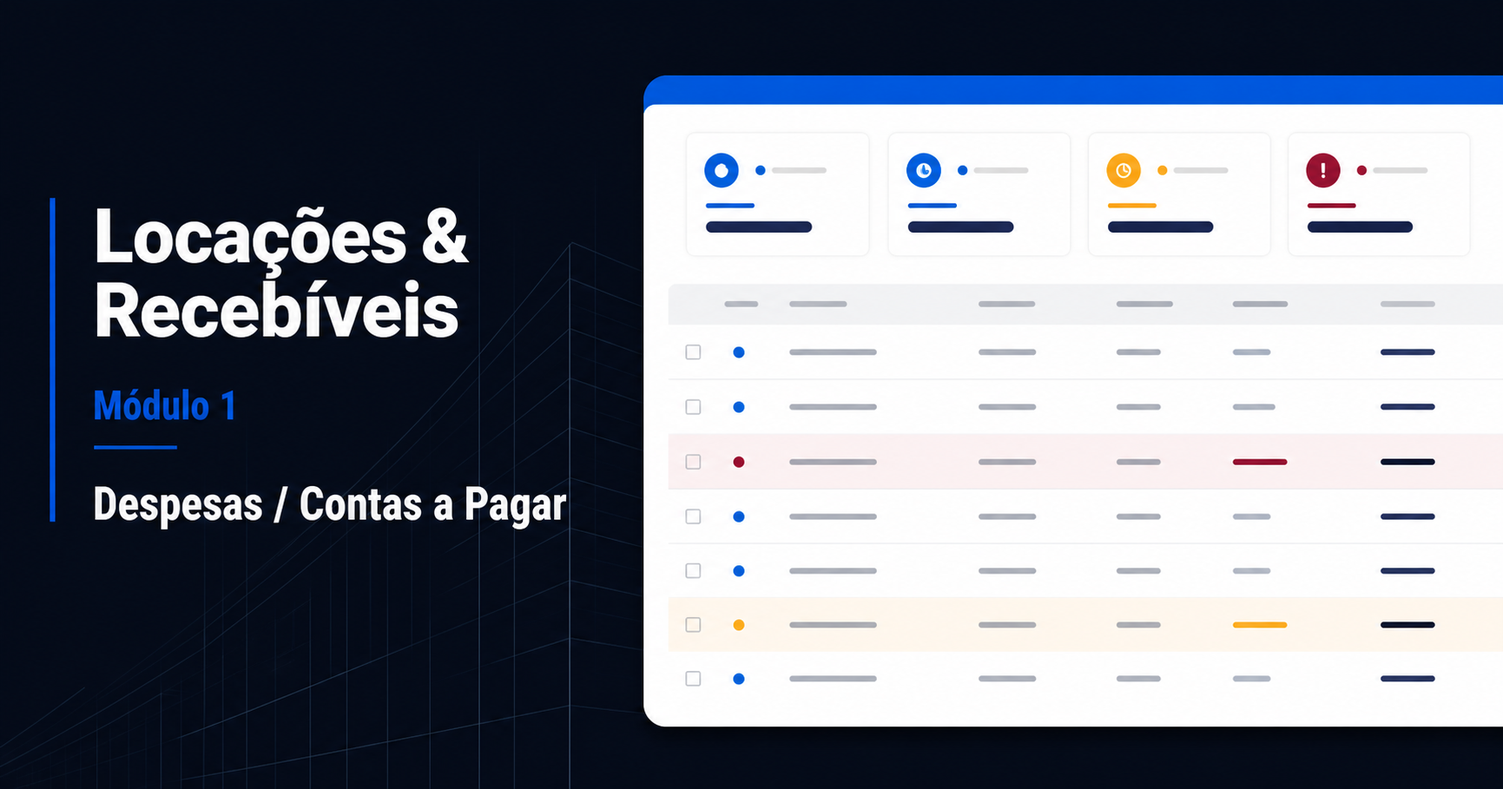
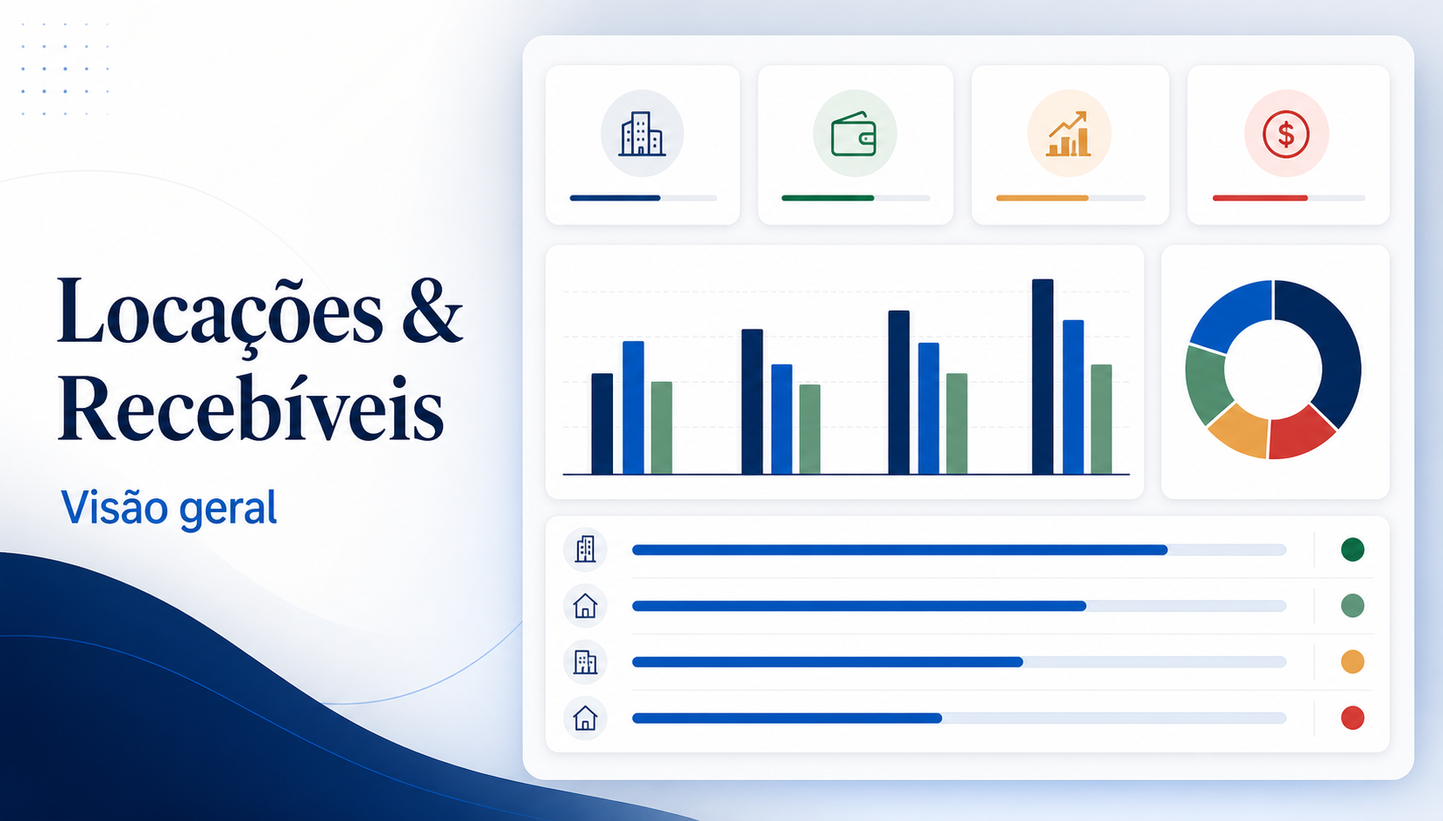
feat: substituir pendencias por dashboard geral

diff --git a/app/page.tsx b/app/page.tsx
@@ -1,11 +1,11 @@
 "use client";
 
-import type { ReactNode } from "react";
+import type { CSSProperties, ReactNode } from "react";
 import { createContext, FormEvent, useContext, useEffect, useMemo, useRef, useState } from "react";
 
 type Status = "Vencida" | "Em aberto" | "Próxima" | "Parcial" | "Recebida";
 type ExpenseStatus = "Pendente" | "Pago" | "Vencido";
-type Page = "Pendências" | "Carteiras" | "Imóveis" | "Unidades" | "Locatários" | "Contratos" | "Cobranças" | "Despesas / Contas a Pagar";
+type Page = "Visão geral" | "Carteiras" | "Imóveis" | "Unidades" | "Locatários" | "Contratos" | "Cobranças" | "Despesas / Contas a Pagar";
 type FormKind = "portfolio" | "property" | "unit" | "tenant" | "contract" | "charge" | null;
 type ContentState = "ready" | "loading" | "error";
 type ToastMessage = { message: string; reference: string } | null;
@@ -318,7 +318,7 @@ export default function Home() {
   useDialogManagement();
   const [authenticated, setAuthenticated] = useState(false);
   const [loading, setLoading] = useState(false);
-  const [page, setPage] = useState<Page>("Pendências");
+  const [page, setPage] = useState<Page>("Visão geral");
   const [search, setSearch] = useState("");
   const [portfolioFilter, setPortfolioFilter] = useState("Todas as carteiras");
   const [statusFilter, setStatusFilter] = useState("Todas");
@@ -359,13 +359,13 @@ export default function Home() {
     };
   }, []);
 
-  const operational = charges.filter((charge) => charge.status !== "Recebida");
-  const baseCharges = page === "Pendências" ? operational : charges;
-  const filteredCharges = useMemo(() => baseCharges.filter((charge) => {
+  const chargeAttentionCount = charges.filter((charge) => charge.status === "Vencida" || charge.status === "Parcial").length;
+  const chargesInScope = useMemo(() => charges.filter((charge) => {
     const query = search.trim().toLowerCase();
     const matchesSearch = !query || [charge.id, charge.contract, charge.property, charge.tenant, charge.competence, ...charge.units, ...charge.items.map((item) => item.name)].some((value) => value.toLowerCase().includes(query));
-    return matchesSearch && (statusFilter === "Todas" || charge.status === statusFilter) && (portfolioFilter === "Todas as carteiras" || charge.portfolio === portfolioFilter);
-  }), [baseCharges, portfolioFilter, search, statusFilter]);
+    return matchesSearch && (portfolioFilter === "Todas as carteiras" || charge.portfolio === portfolioFilter);
+  }), [portfolioFilter, search]);
+  const filteredCharges = useMemo(() => chargesInScope.filter((charge) => statusFilter === "Todas" || charge.status === statusFilter), [chargesInScope, statusFilter]);
   const filteredExpenses = useMemo(() => expenses.filter((expense) => {
     const query = search.trim().toLowerCase();
     const matchesSearch = !query || [expense.id, expense.supplier, expense.description, expense.category].some((value) => value.toLowerCase().includes(query));
@@ -485,7 +485,7 @@ export default function Home() {
   if (!authenticated) return <Login loading={loading} onSubmit={login} />;
 
   return <main className={`app-shell ${sidebarCollapsed ? "app-shell-sidebar-collapsed" : ""}`}>
-    <Sidebar page={page} operationalCount={operational.length} onNavigate={changePage} onLogout={() => setAuthenticated(false)} open={menuOpen} onClose={() => setMenuOpen(false)} collapsed={sidebarCollapsed} onExpand={() => setSidebarCollapsed(false)} />
+    <Sidebar page={page} attentionCount={chargeAttentionCount} onNavigate={changePage} onLogout={() => setAuthenticated(false)} open={menuOpen} onClose={() => setMenuOpen(false)} collapsed={sidebarCollapsed} onExpand={() => setSidebarCollapsed(false)} />
     <section className="workspace" onClick={() => !sidebarCollapsed && setSidebarCollapsed(true)}>
       <header className="topbar">
         <button className="menu-button" onClick={() => setMenuOpen(true)} aria-label="Abrir navegação">☰</button>
@@ -497,7 +497,8 @@ export default function Home() {
         {contentState === "loading" && <AuthenticatedPageSkeleton />}
         {contentState === "error" && <SystemError onRetry={retryContent} />}
         {contentState === "ready" && <FilterStateContext.Provider value={Boolean(search || portfolioFilter !== "Todas as carteiras" || statusFilter !== "Todas" || categoryFilter !== "Todas as categorias")}><>
-          {(page === "Pendências" || page === "Cobranças") && <ChargesPage page={page} charges={filteredCharges} total={baseCharges.length} search={search} setSearch={setSearch} portfolioFilter={portfolioFilter} setPortfolioFilter={setPortfolioFilter} statusFilter={statusFilter} setStatusFilter={setStatusFilter} onOpen={setSelectedCharge} onNew={() => setForm("charge")} />}
+          {page === "Visão geral" && <DashboardPage charges={charges} expenses={expenses} units={unitRecords} contracts={contracts} onNavigate={(next, status) => { changePage(next); if (status) setStatusFilter(status); }} />}
+          {page === "Cobranças" && <ChargesPage charges={filteredCharges} summaryCharges={chargesInScope} total={charges.length} search={search} setSearch={setSearch} portfolioFilter={portfolioFilter} setPortfolioFilter={setPortfolioFilter} statusFilter={statusFilter} setStatusFilter={setStatusFilter} onOpen={setSelectedCharge} onNew={() => setForm("charge")} />}
           {page === "Carteiras" && <PortfoliosPage portfolios={portfolioRecords} search={search} setSearch={setSearch} onNew={() => { setEditingPortfolio(null); setForm("portfolio"); }} onEdit={(portfolio) => { setEditingPortfolio(portfolio); setForm("portfolio"); }} />}
           {page === "Imóveis" && <PropertiesPage properties={propertyRecords} search={search} setSearch={setSearch} portfolioFilter={portfolioFilter} setPortfolioFilter={setPortfolioFilter} onNew={() => { setEditingProperty(null); setForm("property"); }} onEdit={(property) => { setEditingProperty(property); setForm("property"); }} />}
           {page === "Unidades" && <UnitsPage units={unitRecords} search={search} setSearch={setSearch} portfolioFilter={portfolioFilter} setPortfolioFilter={setPortfolioFilter} onNew={() => { setEditingUnit(null); setForm("unit"); }} onEdit={(unit) => { setEditingUnit(unit); setForm("unit"); }} />}
@@ -536,18 +537,18 @@ function Login({ loading, onSubmit }: { loading: boolean; onSubmit: (event: Form
 function SidebarGlyph({ name }: { name: string }) {
   const glyphs: Record<string, string> = {
     "Operação": "clipboard", "Estrutura": "structure", "Locação": "key", "Financeiro": "finance",
-    "Pendências": "schedule", "Carteiras": "briefcase", "Imóveis": "building", "Unidades": "door",
+    "Visão geral": "schedule", "Carteiras": "briefcase", "Imóveis": "building", "Unidades": "door",
     "Locatários": "users", "Contratos": "document", "Cobranças": "income", "Despesas / Contas a Pagar": "payable",
   };
   return <span className={`sidebar-glyph glyph-${glyphs[name] ?? "document"}`} aria-hidden="true"><span /></span>;
 }
 
-function Sidebar({ page, operationalCount, onNavigate, onLogout, open, onClose, collapsed, onExpand }: { page: Page; operationalCount: number; onNavigate: (page: Page) => void; onLogout: () => void; open: boolean; onClose: () => void; collapsed: boolean; onExpand: () => void }) {
+function Sidebar({ page, attentionCount, onNavigate, onLogout, open, onClose, collapsed, onExpand }: { page: Page; attentionCount: number; onNavigate: (page: Page) => void; onLogout: () => void; open: boolean; onClose: () => void; collapsed: boolean; onExpand: () => void }) {
   const [openTheme, setOpenTheme] = useState<string | null>("Operação");
   const groups: Array<{ name: string; description: string; pages: Array<{ name: Page; count?: number }> }> = [
-    { name: "Operação", description: "Acompanhamento diário", pages: [{ name: "Pendências", count: operationalCount }] },
+    { name: "Operação", description: "Acompanhamento diário", pages: [{ name: "Visão geral" }] },
     { name: "Estrutura", description: "Cadastros e patrimônio", pages: [{ name: "Carteiras" }, { name: "Imóveis" }, { name: "Unidades" }, { name: "Locatários" }] },
-    { name: "Locação", description: "Contratos e recebíveis", pages: [{ name: "Contratos" }, { name: "Cobranças" }] },
+    { name: "Locação", description: "Contratos e recebíveis", pages: [{ name: "Contratos" }, { name: "Cobranças", count: attentionCount }] },
     { name: "Financeiro", description: "Obrigações financeiras", pages: [{ name: "Despesas / Contas a Pagar" }] },
   ];
   const compact = collapsed && !open;
@@ -632,18 +633,98 @@ function EmptyState({ filtered, entity = "registro" }: { filtered?: boolean; ent
 }
 function UnitPills({ values }: { values: string[] }) { return <div className="tag-list">{values.map((value) => <span key={value}>{value}</span>)}</div>; }
 
-function ChargesPage({ page, charges: rows, total, search, setSearch, portfolioFilter, setPortfolioFilter, statusFilter, setStatusFilter, onOpen, onNew }: { page: Page; charges: Charge[]; total: number; search: string; setSearch: (value: string) => void; portfolioFilter: string; setPortfolioFilter: (value: string) => void; statusFilter: string; setStatusFilter: (value: string) => void; onOpen: (charge: Charge) => void; onNew: () => void }) {
-  const pendingCharges = charges.filter((charge) => charge.status !== "Recebida");
-  const pending = pendingCharges.reduce((sum, charge) => sum + chargeBalance(charge), 0);
-  const countByStatus = (status: ChargeStatus) => pendingCharges.filter((charge) => charge.status === status).length;
+function DashboardPage({ charges, expenses, units, contracts, onNavigate }: { charges: Charge[]; expenses: Expense[]; units: Unit[]; contracts: Contract[]; onNavigate: (page: Page, status?: string) => void }) {
+  const openCharges = charges.filter((charge) => charge.status !== "Recebida");
+  const overdueCharges = charges.filter((charge) => charge.status === "Vencida");
+  const partialCharges = charges.filter((charge) => charge.status === "Parcial");
+  const openExpenses = expenses.filter((expense) => expense.status !== "Pago");
+  const overdueExpenses = expenses.filter((expense) => expense.status === "Vencido");
+  const receivableBalance = openCharges.reduce((sum, charge) => sum + chargeBalance(charge), 0);
+  const overdueReceivable = overdueCharges.reduce((sum, charge) => sum + chargeBalance(charge), 0);
+  const payableBalance = openExpenses.reduce((sum, expense) => sum + expense.amount, 0);
+  const occupiedUnits = units.filter((unit) => unit.occupied).length;
+  const occupancyRate = units.length ? Math.round((occupiedUnits / units.length) * 100) : 0;
+  const statusRows = (["Vencida", "Parcial", "Próxima", "Em aberto", "Recebida"] as Status[]).map((status) => ({ status, count: charges.filter((charge) => charge.status === status).length }));
+  const statusColors: Record<Status, string> = { Vencida: "#b44853", Parcial: "#c18424", "Próxima": "#4b78cf", "Em aberto": "#8693a5", Recebida: "#2d7b58" };
+  let donutStart = 0;
+  const donutStops = statusRows.filter((row) => row.count > 0).map((row) => {
+    const start = donutStart;
+    donutStart += (row.count / Math.max(charges.length, 1)) * 100;
+    return `${statusColors[row.status]} ${start}% ${donutStart}%`;
+  });
+  const monthlyMap = new Map<string, { billed: number; received: number }>();
+  charges.forEach((charge) => {
+    const current = monthlyMap.get(charge.competence) ?? { billed: 0, received: 0 };
+    current.billed += chargeTotal(charge);
+    current.received += receivedTotal(charge);
+    monthlyMap.set(charge.competence, current);
+  });
+  const monthlyRows = Array.from(monthlyMap, ([competence, values]) => ({ competence, ...values })).sort((a, b) => {
+    const [monthA, yearA] = a.competence.split("/").map(Number);
+    const [monthB, yearB] = b.competence.split("/").map(Number);
+    return yearA * 12 + monthA - (yearB * 12 + monthB);
+  });
+  const monthlyMax = Math.max(...monthlyRows.flatMap((row) => [row.billed, row.received]), 1);
+  const portfolios = Array.from(new Set(units.map((unit) => unit.portfolio))).map((portfolio) => {
+    const portfolioUnits = units.filter((unit) => unit.portfolio === portfolio);
+    const occupied = portfolioUnits.filter((unit) => unit.occupied).length;
+    return { portfolio, occupied, total: portfolioUnits.length, rate: portfolioUnits.length ? Math.round((occupied / portfolioUnits.length) * 100) : 0 };
+  });
   return <>
-    <PageHeading eyebrow={page === "Pendências" ? "12 de agosto de 2026" : "Consulta operacional"} title={page} description={page === "Pendências" ? "Veja o que exige ação, a composição de cada cobrança e os saldos por competência." : "Localize cobranças por carteira, contrato, unidade, locatário ou item."} action="Nova cobrança" onAction={onNew} />
-    {page === "Pendências" && <section className="summary-strip pending-summary" aria-label="Indicadores de pendências">
-      <div className="summary-card summary-card-tracking"><span>Saldo em acompanhamento</span><strong>{brl.format(pending)}</strong><small>Valores fictícios</small></div>
-      <button type="button" className="summary-card summary-card-button summary-card-overdue" aria-pressed={statusFilter === "Vencida"} onClick={() => setStatusFilter("Vencida")} title="Filtrar cobranças vencidas"><span>Vencidas</span><strong>{countByStatus("Vencida")}</strong><small>Exige ação</small></button>
-      <button type="button" className="summary-card summary-card-button summary-card-upcoming" aria-pressed={statusFilter === "Próxima"} onClick={() => setStatusFilter("Próxima")} title="Filtrar cobranças próximas"><span>Próximas</span><strong>{countByStatus("Próxima")}</strong><small>Até 15 de agosto</small></button>
-      <button type="button" className="summary-card summary-card-button summary-card-partial" aria-pressed={statusFilter === "Parcial"} onClick={() => setStatusFilter("Parcial")} title="Filtrar cobranças com baixa parcial"><span>Baixa parcial</span><strong>{countByStatus("Parcial")}</strong><small>Saldo distribuído por item</small></button>
-    </section>}
+    <PageHeading eyebrow="12 de agosto de 2026" title="Visão geral" description="Acompanhe a saúde da operação, dos recebíveis e das obrigações financeiras." />
+    <section className="dashboard-kpis" aria-label="Indicadores gerais da operação">
+      <button type="button" className="dashboard-kpi kpi-receivable" onClick={() => onNavigate("Cobranças")}><span>Saldo a receber</span><strong>{brl.format(receivableBalance)}</strong><small>{openCharges.length} cobranças em aberto</small><i aria-hidden="true">→</i></button>
+      <button type="button" className="dashboard-kpi kpi-overdue" onClick={() => onNavigate("Cobranças", "Vencida")}><span>Recebíveis vencidos</span><strong>{brl.format(overdueReceivable)}</strong><small>{overdueCharges.length} {overdueCharges.length === 1 ? "cobrança exige" : "cobranças exigem"} atenção</small><i aria-hidden="true">→</i></button>
+      <button type="button" className="dashboard-kpi kpi-payable" onClick={() => onNavigate("Despesas / Contas a Pagar")}><span>Contas a pagar</span><strong>{brl.format(payableBalance)}</strong><small>{openExpenses.length} contas em aberto</small><i aria-hidden="true">→</i></button>
+      <button type="button" className="dashboard-kpi kpi-occupancy" onClick={() => onNavigate("Unidades")}><span>Ocupação das unidades</span><strong>{occupancyRate}%</strong><small>{occupiedUnits} de {units.length} unidades ocupadas</small><i aria-hidden="true">→</i></button>
+    </section>
+    <section className="dashboard-grid dashboard-grid-main">
+      <article className="dashboard-panel dashboard-cashflow">
+        <header className="dashboard-panel-header"><div><p className="eyebrow">Recebíveis por competência</p><h2>Previsto x recebido</h2></div><div className="chart-legend"><span><i className="legend-billed" />Previsto</span><span><i className="legend-received" />Recebido</span></div></header>
+        <div className="competence-chart" role="img" aria-label="Comparação entre valores previstos e recebidos por competência">
+          <div className="chart-scale" aria-hidden="true"><span>{brl.format(monthlyMax)}</span><span>{brl.format(monthlyMax / 2)}</span><span>R$ 0</span></div>
+          <div className="chart-plot">{monthlyRows.map((row) => <div className="chart-group" key={row.competence} aria-label={`${row.competence}: previsto ${brl.format(row.billed)}, recebido ${brl.format(row.received)}`}><div className="chart-bars"><i className="chart-bar chart-bar-billed" style={{ "--bar-height": `${(row.billed / monthlyMax) * 100}%` } as CSSProperties} /><i className="chart-bar chart-bar-received" style={{ "--bar-height": `${(row.received / monthlyMax) * 100}%` } as CSSProperties} /></div><strong>{row.competence}</strong></div>)}</div>
+        </div>
+        <footer className="dashboard-panel-footer"><span>Total previsto <strong>{brl.format(charges.reduce((sum, charge) => sum + chargeTotal(charge), 0))}</strong></span><span>Total recebido <strong>{brl.format(charges.reduce((sum, charge) => sum + receivedTotal(charge), 0))}</strong></span></footer>
+      </article>
+      <article className="dashboard-panel dashboard-status-panel">
+        <header className="dashboard-panel-header"><div><p className="eyebrow">Carteira de cobranças</p><h2>Situação atual</h2></div></header>
+        <div className="status-overview"><div className="status-donut" style={{ background: donutStops.length ? `conic-gradient(${donutStops.join(",")})` : "#e5e9ef" }} role="img" aria-label={`Distribuição de ${charges.length} cobranças por situação`}><span><strong>{openCharges.length}</strong><small>em aberto</small></span></div>
+          <div className="status-breakdown">{statusRows.filter((row) => row.count > 0).map((row) => <button type="button" key={row.status} onClick={() => onNavigate("Cobranças", row.status)}><i style={{ background: statusColors[row.status] }} /><span>{row.status}</span><strong>{row.count}</strong></button>)}</div>
+        </div>
+      </article>
+    </section>
+    <section className="dashboard-grid dashboard-grid-secondary">
+      <article className="dashboard-panel occupancy-panel">
+        <header className="dashboard-panel-header"><div><p className="eyebrow">Estrutura patrimonial</p><h2>Ocupação por carteira</h2></div><span className="panel-meta">{contracts.length} contratos ativos</span></header>
+        <div className="occupancy-list">{portfolios.map((row) => <div className="occupancy-row" key={row.portfolio}><div><strong>{row.portfolio}</strong><span>{row.occupied} de {row.total} unidades</span></div><div className="occupancy-track" role="progressbar" aria-valuenow={row.rate} aria-valuemin={0} aria-valuemax={100} aria-label={`Ocupação de ${row.portfolio}`}><i style={{ width: `${row.rate}%` }} /></div><b>{row.rate}%</b></div>)}</div>
+        <button type="button" className="panel-link" onClick={() => onNavigate("Unidades")}>Ver todas as unidades <span aria-hidden="true">→</span></button>
+      </article>
+      <article className="dashboard-panel attention-panel">
+        <header className="dashboard-panel-header"><div><p className="eyebrow">Prioridades</p><h2>Exige atenção</h2></div><span className="attention-count">{overdueCharges.length + overdueExpenses.length + partialCharges.length}</span></header>
+        <div className="attention-list">
+          {overdueCharges.map((charge) => <button type="button" key={charge.id} onClick={() => onNavigate("Cobranças", "Vencida")}><i className="attention-danger" /><span><strong>{charge.tenant}</strong><small>{charge.id} · cobrança vencida</small></span><b>{brl.format(chargeBalance(charge))}</b></button>)}
+          {overdueExpenses.map((expense) => <button type="button" key={expense.id} onClick={() => onNavigate("Despesas / Contas a Pagar", "Vencido")}><i className="attention-danger" /><span><strong>{expense.supplier}</strong><small>{expense.id} · conta vencida</small></span><b>{brl.format(expense.amount)}</b></button>)}
+          {partialCharges.map((charge) => <button type="button" key={charge.id} onClick={() => onNavigate("Cobranças", "Parcial")}><i className="attention-warning" /><span><strong>{charge.tenant}</strong><small>{charge.id} · baixa parcial</small></span><b>{brl.format(chargeBalance(charge))}</b></button>)}
+        </div>
+      </article>
+    </section>
+  </>;
+}
+
+function ChargesPage({ charges: rows, summaryCharges, total, search, setSearch, portfolioFilter, setPortfolioFilter, statusFilter, setStatusFilter, onOpen, onNew }: { charges: Charge[]; summaryCharges: Charge[]; total: number; search: string; setSearch: (value: string) => void; portfolioFilter: string; setPortfolioFilter: (value: string) => void; statusFilter: string; setStatusFilter: (value: string) => void; onOpen: (charge: Charge) => void; onNew: () => void }) {
+  const pendingCharges = summaryCharges.filter((charge) => charge.status !== "Recebida");
+  const pending = pendingCharges.reduce((sum, charge) => sum + chargeBalance(charge), 0);
+  const countByStatus = (status: Status) => pendingCharges.filter((charge) => charge.status === status).length;
+  const toggleStatus = (status: Status) => setStatusFilter(statusFilter === status ? "Todas" : status);
+  return <>
+    <PageHeading eyebrow="Consulta operacional" title="Cobranças" description="Localize cobranças por carteira, contrato, unidade, locatário ou item." action="Nova cobrança" onAction={onNew} />
+    <section className="summary-strip pending-summary" aria-label="Indicadores de cobranças">
+      <div className="summary-card summary-card-tracking"><span>Saldo em aberto</span><strong>{brl.format(pending)}</strong><small>{pendingCharges.length} cobranças em acompanhamento</small></div>
+      <button type="button" className="summary-card summary-card-button summary-card-overdue" aria-pressed={statusFilter === "Vencida"} onClick={() => toggleStatus("Vencida")} title="Filtrar cobranças vencidas"><span>Vencidas</span><strong>{countByStatus("Vencida")}</strong><small>Exige ação</small></button>
+      <button type="button" className="summary-card summary-card-button summary-card-upcoming" aria-pressed={statusFilter === "Próxima"} onClick={() => toggleStatus("Próxima")} title="Filtrar cobranças próximas"><span>Próximas</span><strong>{countByStatus("Próxima")}</strong><small>Nos próximos dias</small></button>
+      <button type="button" className="summary-card summary-card-button summary-card-partial" aria-pressed={statusFilter === "Parcial"} onClick={() => toggleStatus("Parcial")} title="Filtrar cobranças com baixa parcial"><span>Baixa parcial</span><strong>{countByStatus("Parcial")}</strong><small>Saldo distribuído por item</small></button>
+    </section>
     <TableSection toolbar={<><SearchBar value={search} onChange={setSearch} placeholder="Buscar por contrato, unidade, locatário ou item" /><PortfolioFilter value={portfolioFilter} onChange={setPortfolioFilter} /><select aria-label="Filtrar por situação" value={statusFilter} onChange={(event) => setStatusFilter(event.target.value)}><option>Todas</option><option>Vencida</option><option>Em aberto</option><option>Próxima</option><option>Parcial</option><option>Recebida</option></select></>} footer={<><span>{rows.length} de {total} cobranças</span><span>Inclusão e baixa manuais</span></>}>
       <table className="charges-table"><thead><tr><th>Cobrança</th><th>Contrato / unidades</th><th>Locatário</th><th>Competência</th><th>Composição</th><th>Total</th><th>Saldo</th><th>Situação</th></tr></thead><tbody>{rows.map((charge) => <tr key={charge.id} onClick={() => onOpen(charge)} tabIndex={0} onKeyDown={(event) => event.key === "Enter" && onOpen(charge)}><td><strong>{charge.id}</strong><small>{charge.portfolio}</small></td><td><strong>{charge.contract}</strong><small>{charge.property}</small><UnitPills values={charge.units} /></td><td>{charge.tenant}</td><td>{charge.competence}</td><td>{charge.items.length} {charge.items.length === 1 ? "item" : "itens"}<small>{charge.items.map((item) => item.name).join(" · ")}</small></td><td>{brl.format(chargeTotal(charge))}</td><td><strong>{brl.format(chargeBalance(charge))}</strong></td><td><StatusBadge status={charge.status} /></td></tr>)}</tbody></table>{rows.length === 0 && <EmptyState />}
     </TableSection>

diff --git a/app/globals.css b/app/globals.css
@@ -259,6 +259,38 @@ button:disabled,input:disabled,select:disabled,textarea:disabled { opacity:var(-
 .summary-card-button { position:relative;appearance:none;cursor:pointer;transition:background var(--duration-fast),box-shadow var(--duration-fast); }
 .summary-card-button:hover { background:var(--summary-soft);box-shadow:inset 0 3px 0 var(--summary-accent),inset 0 0 0 1px color-mix(in srgb,var(--summary-accent) 28%,transparent); }
 .summary-card-button[aria-pressed="true"] { background:var(--summary-soft);box-shadow:inset 0 3px 0 var(--summary-accent),inset 0 0 0 2px color-mix(in srgb,var(--summary-accent) 42%,transparent); }
+.dashboard-kpis { display:grid;grid-template-columns:repeat(4,minmax(0,1fr));gap:12px;margin-bottom:18px; }
+.dashboard-kpi { --kpi-accent:var(--color-info);position:relative;min-width:0;min-height:130px;padding:22px 22px 20px;display:grid;align-content:center;gap:6px;overflow:hidden;text-align:left;color:var(--ink);background:var(--color-surface);border:1px solid var(--color-border);border-top:3px solid var(--kpi-accent);border-radius:var(--radius-sm);transition:transform var(--duration-fast),border-color var(--duration-fast),box-shadow var(--duration-fast); }
+.dashboard-kpi:hover { transform:translateY(-2px);border-color:color-mix(in srgb,var(--kpi-accent) 38%,var(--color-border));box-shadow:0 10px 24px rgba(29,44,70,.08); }
+.dashboard-kpi>span { color:var(--muted-strong);font-size:var(--font-size-xs);line-height:1.4;text-transform:uppercase;letter-spacing:.065em;font-weight:690; }
+.dashboard-kpi>strong { color:var(--kpi-accent);font-size:clamp(21px,2vw,28px);line-height:1.2;letter-spacing:-.045em;font-weight:680; }
+.dashboard-kpi>small { color:var(--muted);font-size:var(--font-size-xs);line-height:1.45; }
+.dashboard-kpi>i { position:absolute;right:18px;top:18px;color:color-mix(in srgb,var(--kpi-accent) 65%,white);font-size:18px;font-style:normal; }
+.kpi-receivable { --kpi-accent:var(--color-success); }.kpi-overdue { --kpi-accent:var(--color-danger); }.kpi-payable { --kpi-accent:var(--color-warning); }.kpi-occupancy { --kpi-accent:var(--color-info); }
+.dashboard-grid { display:grid;gap:18px;margin-bottom:18px; }.dashboard-grid-main { grid-template-columns:minmax(0,1.65fr) minmax(300px,.85fr); }.dashboard-grid-secondary { grid-template-columns:repeat(2,minmax(0,1fr)); }
+.dashboard-panel { min-width:0;background:var(--color-surface);border:1px solid var(--color-border);border-radius:var(--radius-sm); }
+.dashboard-panel-header { min-height:79px;padding:19px 21px 16px;display:flex;align-items:center;justify-content:space-between;gap:18px;border-bottom:1px solid var(--line); }
+.dashboard-panel-header h2 { margin:6px 0 0;color:#1e2733;font-size:18px;line-height:1.25;letter-spacing:-.025em; }
+.chart-legend { display:flex;align-items:center;gap:14px;color:var(--muted);font-size:var(--font-size-xs);white-space:nowrap; }
+.chart-legend span { display:flex;align-items:center;gap:6px; }.chart-legend i { width:8px;height:8px;border-radius:2px; }.legend-billed { background:#3157a4; }.legend-received { background:#57a57c; }
+.competence-chart { min-height:270px;padding:20px 22px 10px;display:grid;grid-template-columns:68px minmax(0,1fr);gap:12px; }
+.chart-scale { height:224px;padding-bottom:26px;display:flex;flex-direction:column;justify-content:space-between;color:#8a94a3;font-size:10px;line-height:1.2;text-align:right; }
+.chart-plot { min-width:0;height:224px;padding:0 5%;display:grid;grid-template-columns:repeat(3,minmax(66px,1fr));align-items:end;gap:8px;background:repeating-linear-gradient(to bottom,#edf0f4 0,#edf0f4 1px,transparent 1px,transparent 50%);border-bottom:1px solid #dfe4eb; }
+.chart-group { height:224px;display:grid;grid-template-rows:minmax(0,1fr) 26px;align-items:end; }
+.chart-bars { height:198px;display:flex;align-items:flex-end;justify-content:center;gap:7px; }
+.chart-bar { display:block;width:min(28px,32%);height:max(2px,var(--bar-height));border-radius:4px 4px 0 0;box-shadow:inset 0 1px rgba(255,255,255,.28); }.chart-bar-billed { background:linear-gradient(180deg,#456cba,#3157a4); }.chart-bar-received { background:linear-gradient(180deg,#66b98c,#398361); }
+.chart-group>strong { align-self:end;color:var(--muted-strong);font-size:11px;line-height:26px;text-align:center;font-weight:630; }
+.dashboard-panel-footer { min-height:53px;padding:12px 21px;display:flex;align-items:center;justify-content:flex-end;gap:24px;color:var(--muted);background:var(--color-surface-subtle);border-top:1px solid var(--line);font-size:var(--font-size-xs); }
+.dashboard-panel-footer span { display:flex;align-items:center;gap:7px; }.dashboard-panel-footer strong { color:#2e3948;font-weight:680; }
+.status-overview { min-height:323px;padding:25px 22px;display:grid;align-content:center;gap:27px; }
+.status-donut { position:relative;width:154px;height:154px;margin:auto;display:grid;place-items:center;border-radius:50%; }.status-donut::after { content:"";position:absolute;inset:28px;background:var(--color-surface);border-radius:50%;box-shadow:0 0 0 1px rgba(226,231,238,.65); }
+.status-donut>span { position:relative;z-index:1;display:grid;text-align:center; }.status-donut strong { color:#202936;font-size:27px;line-height:1;font-weight:680; }.status-donut small { margin-top:5px;color:var(--muted);font-size:11px; }
+.status-breakdown { display:grid;gap:5px; }.status-breakdown button { min-height:34px;padding:5px 7px;display:grid;grid-template-columns:8px 1fr auto;align-items:center;gap:9px;color:var(--muted-strong);background:transparent;border:0;border-radius:var(--radius-md);text-align:left;font-size:var(--font-size-xs); }.status-breakdown button:hover { background:var(--state-hover-surface);color:var(--ink); }.status-breakdown button i { width:8px;height:8px;border-radius:2px; }.status-breakdown button strong { color:#273142;font-size:var(--font-size-sm); }
+.panel-meta { padding:5px 8px;color:var(--color-info-text);background:var(--color-info-surface);border:1px solid #d8e3fb;border-radius:var(--radius-round);font-size:11px;white-space:nowrap; }
+.occupancy-list { min-height:193px;padding:22px 21px 12px;display:grid;align-content:start;gap:23px; }.occupancy-row { display:grid;grid-template-columns:minmax(130px,1fr) minmax(120px,1.35fr) 38px;align-items:center;gap:15px; }.occupancy-row>div:first-child { display:grid;gap:3px; }.occupancy-row strong { color:#2a3442;font-size:var(--font-size-sm); }.occupancy-row span { color:var(--muted);font-size:11px; }.occupancy-track { height:8px;overflow:hidden;background:#e7ebf0;border-radius:var(--radius-round); }.occupancy-track i { display:block;height:100%;background:linear-gradient(90deg,#3157a4,#5b86d8);border-radius:inherit; }.occupancy-row>b { color:#364356;font-size:var(--font-size-sm);text-align:right; }
+.panel-link { width:100%;min-height:49px;padding:0 21px;display:flex;align-items:center;justify-content:space-between;color:var(--color-info-text);background:var(--color-surface-subtle);border:0;border-top:1px solid var(--line);font-size:var(--font-size-xs);font-weight:680; }.panel-link:hover { background:var(--state-hover-surface); }
+.attention-count { min-width:29px;height:29px;display:grid;place-items:center;color:var(--color-danger-text);background:var(--color-danger-surface);border:1px solid var(--color-danger-border);border-radius:var(--radius-round);font-size:var(--font-size-xs);font-weight:730; }
+.attention-list { min-height:242px;display:grid;align-content:start; }.attention-list button { min-width:0;min-height:75px;padding:13px 20px;display:grid;grid-template-columns:8px minmax(0,1fr) auto;align-items:center;gap:13px;color:var(--ink);background:transparent;border:0;border-bottom:1px solid var(--line);text-align:left; }.attention-list button:last-child { border-bottom:0; }.attention-list button:hover { background:var(--state-hover-surface); }.attention-list>button>i { width:7px;height:7px;border-radius:50%; }.attention-danger { background:var(--color-danger);box-shadow:0 0 0 4px var(--color-danger-surface); }.attention-warning { background:var(--color-warning);box-shadow:0 0 0 4px var(--color-warning-surface); }.attention-list button>span { min-width:0;display:grid;gap:3px; }.attention-list button strong { overflow:hidden;text-overflow:ellipsis;white-space:nowrap;font-size:var(--font-size-sm); }.attention-list button small { color:var(--muted);font-size:11px; }.attention-list button>b { color:#2d3746;font-size:var(--font-size-xs);white-space:nowrap; }
 .table-section { background:var(--color-surface);border:1px solid var(--color-border); }
 .table-toolbar { min-height:71px;padding:14px 16px;display:flex;gap:9px;align-items:center;border-bottom:1px solid var(--line); }
 .search-field { position:relative;flex:1;max-width:430px;border:1px solid var(--color-border-control);border-radius:var(--radius-md);background:var(--color-surface);transition:border var(--duration-normal),box-shadow var(--duration-normal); }
@@ -465,11 +497,13 @@ td small { display:block;margin-top:4px;color:var(--muted-strong);font-size:var(
 @media (max-width:1100px) and (min-width:761px) {
   .sidebar:not(.sidebar-collapsed){width:260px;padding-left:13px;padding-right:13px}.workspace{margin-left:260px}.app-shell-sidebar-collapsed .workspace{margin-left:76px}.content{padding-left:27px;padding-right:27px}
 }
+@media (max-width:1180px) { .dashboard-kpis{grid-template-columns:repeat(2,minmax(0,1fr))}.dashboard-grid-main,.dashboard-grid-secondary{grid-template-columns:1fr}.dashboard-status-panel .status-overview{grid-template-columns:180px 1fr;min-height:230px}.attention-list{min-height:0} }
 @media (max-width:1000px) { .summary-strip { grid-template-columns:1fr 1fr; }.summary-strip>:is(div,button):nth-child(2){border-right:0}.summary-strip>:is(div,button):nth-child(-n+2){border-bottom:1px solid var(--line)} }
 @media (max-width:760px) {
   .login-page{grid-template-columns:1fr}.login-brand{min-height:270px;padding:30px}.login-brand::before{width:300px;height:300px;right:-160px;top:-80px}.login-copy{margin:42px 0 14px}.login-copy h1{font-size:42px}.login-copy>p:last-child,.login-footer{display:none}.login-panel{padding:42px 24px 60px}
   .sidebar{width:min(288px,calc(100vw - 28px));padding:17px 13px 13px;transform:translateX(-100%);transition:transform .22s ease}.sidebar.sidebar-open{transform:translateX(0)}.sidebar-mobile-close{margin-left:auto;width:var(--control-height);height:var(--control-height);padding:0;display:grid;place-items:center;color:#7c8795;background:#fff;border:1px solid #dfe4ea;border-radius:var(--radius-md);font-size:17px}.mobile-backdrop{position:fixed;z-index:19;inset:0;display:block;border:0;background:rgba(15,23,36,.46);backdrop-filter:blur(2px)}.workspace,.app-shell-sidebar-collapsed .workspace{margin-left:0}.topbar{height:60px;padding:0 18px}.menu-button{width:var(--control-height);height:var(--control-height);display:grid;place-items:center;margin-right:8px;padding:0;border:0;background:transparent;color:#303947;font-size:19px}.topbar>div:first-of-type{margin-right:auto}.topbar-context{display:none}.content{padding:29px 18px 60px}
   .page-heading{align-items:flex-start}.page-heading h1{font-size:31px}.page-heading p:last-child{max-width:270px;line-height:var(--line-height-normal)}.page-heading .primary-button{display:none}.summary-strip{grid-template-columns:1fr 1fr}.summary-strip>:is(div,button){padding:16px;min-height:96px}.summary-strip strong{font-size:20px}.table-toolbar{flex-wrap:wrap}.search-field{flex-basis:100%;max-width:none}.table-toolbar select,.table-toolbar .secondary-button{flex:1}.detail-list{grid-template-columns:1fr}.receipt-summary{grid-template-columns:1fr}.receipt-summary>div{border-right:0;border-bottom:1px solid #e1e5eb}.form-grid{grid-template-columns:1fr}.full-field{grid-column:1}
+  .dashboard-kpis{grid-template-columns:1fr}.dashboard-kpi{min-height:112px;padding:18px}.dashboard-grid{gap:14px}.dashboard-panel-header{padding:17px;align-items:flex-start;flex-direction:column;gap:10px}.chart-legend{align-self:flex-start}.competence-chart{padding:18px 14px 8px;grid-template-columns:54px minmax(0,1fr);gap:8px}.chart-plot{padding-left:2%;padding-right:2%}.dashboard-panel-footer{align-items:flex-start;flex-direction:column;gap:5px}.dashboard-status-panel .status-overview{grid-template-columns:1fr;min-height:0}.occupancy-row{grid-template-columns:1fr 45px}.occupancy-row .occupancy-track{grid-column:1/-1;grid-row:2}.occupancy-row>b{grid-column:2;grid-row:1}.attention-list button{padding-left:16px;padding-right:16px}
   .charge-builder-row{grid-template-columns:26px 1fr}.charge-builder-row label{grid-column:2}.charge-builder-row .remove-button{grid-column:2;justify-self:end}.allocation-row{grid-template-columns:1fr 120px}.drawer-footer{padding:13px}.toast{left:16px;right:16px;bottom:16px}.receipt-modal{max-height:calc(100vh - 24px);overflow-y:auto}.receipt-modal.entity-modal{overflow:hidden}.contract-section-grid{grid-template-columns:1fr}
   .connection-banner{grid-template-columns:auto 1fr}.connection-banner .secondary-button{grid-column:1/-1}.skeleton-cards{grid-template-columns:1fr 1fr}.skeleton-cards i{height:96px}.skeleton-table>span{grid-template-columns:1fr 1fr}.system-error{padding:28px 18px}.inline-field-error{margin-left:18px;margin-right:18px}
 }

diff --git a/app/layout.tsx b/app/layout.tsx
@@ -23,7 +23,7 @@ export async function generateMetadata(): Promise<Metadata> {
       description,
       type: "website",
       locale: "pt_BR",
-      images: [{ url: socialImage, width: 1731, height: 909, alt: "Despesas e contas a pagar no Módulo 1" }],
+      images: [{ url: socialImage, width: 1662, height: 946, alt: "Visão geral de Locações e Recebíveis" }],
     },
     twitter: { card: "summary_large_image", title, description, images: [socialImage] },
   };
